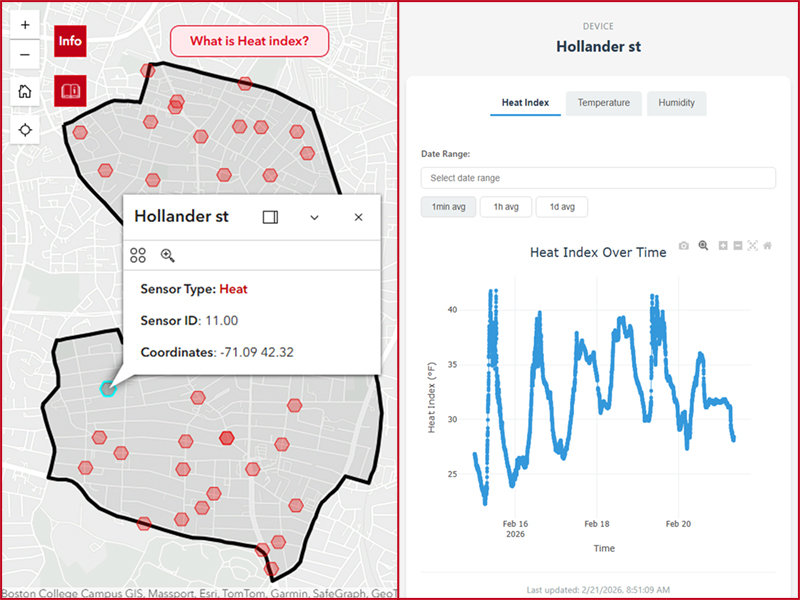
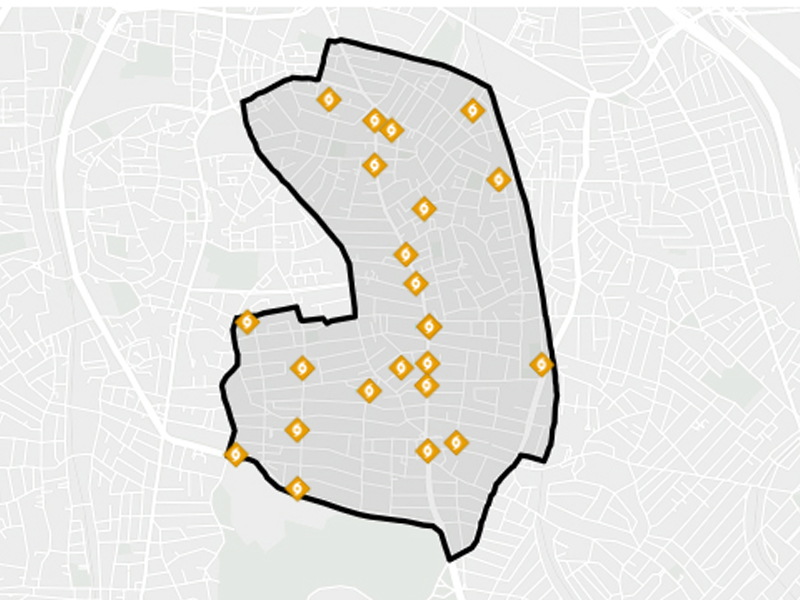
fix: adjust articles

diff --git a/index.html b/index.html
@@ -95,13 +95,9 @@
 							<img src="images/thumbs/project1-01.jpg" alt="" />
 						</a>
 						<a href="images/fulls/project1-02.jpg" class="image fit thumb" style="display:none"
-							data-caption="ETL pipeline architecture">
-							<img src="images/thumbs/project1-01.jpg" alt="" />
-						</a>
+							data-caption="ETL pipeline architecture"></a>
 						<a href="images/fulls/project1-03.jpg" class="image fit thumb" style="display:none"
-							data-caption="Geospatial data visualization">
-							<img src="images/thumbs/project1-01.jpg" alt="" />
-						</a>
+							data-caption="Geospatial data visualization"></a>
 					</div>
 					<div
 						style="display:flex; align-items:center; justify-content:space-between; margin:0.5em 0 0.3em 0;">
@@ -118,85 +114,14 @@
 					<p>Short description here. One or two sentences max.</p>
 					<p class="lx-long-desc" style="display:none">This is the longer description that appears in the
 						lightbox panel. You can write as much as you want here — methodology, context, findings,
-						whatever you want the viewer to read when they open the project.</p>
-					<span class="lx-tag" style="display:none">Python</span>
-					<span class="lx-tag" style="display:none">Azure</span>
-					<span class="lx-tag" style="display:none">SQL</span>
-					<span class="lx-tag" style="display:none">Streamlit</span>
-				</article>
-
-				<article class="col-6 col-12-xsmall work-item">
-					<div class="project-gallery">
-						<a href="images/fulls/project1-01.jpg" class="image fit thumb"
-							data-caption="Real-time sensor dashboard overview">
-							<img src="images/thumbs/project1-01.jpg" alt="" />
-						</a>
-						<a href="images/fulls/project1-02.jpg" class="image fit thumb" style="display:none"
-							data-caption="ETL pipeline architecture">
-							<img src="images/thumbs/project1-01.jpg" alt="" />
-						</a>
-						<a href="images/fulls/project1-03.jpg" class="image fit thumb" style="display:none"
-							data-caption="Geospatial data visualization">
-							<img src="images/thumbs/project1-01.jpg" alt="" />
-						</a>
-					</div>
-					<div
-						style="display:flex; align-items:center; justify-content:space-between; margin:0.5em 0 0.3em 0;">
-						<h3 style="margin:0;">Environmental Sensor Network Pipeline</h3>
-						<ul class="icons" style="margin:0; font-size:0.8em;">
-							<li><a href="https://github.com/jcruz-ferreyra?tab=repositories"
-									class="icon brands fa-github" title="GitHub"><span class="label">GitHub</span></a>
-							</li>
-							<li><a href="https://www.commonsensesproject.org/live-sensor-data"
-									class="icon solid fa-globe" title="Live Site"><span class="label">Live
-										Site</span></a></li>
-						</ul>
-					</div>
-					<p>Short description here. One or two sentences max.</p>
-					<p class="lx-long-desc" style="display:none">This is the longer description that appears in the
+						whatever you want the viewer to read when they open the project. This is the longer description
+						that appears in the
 						lightbox panel. You can write as much as you want here — methodology, context, findings,
-						whatever you want the viewer to read when they open the project.</p>
-					<span class="lx-tag" style="display:none">Python</span>
-					<span class="lx-tag" style="display:none">Azure</span>
-					<span class="lx-tag" style="display:none">SQL</span>
-					<span class="lx-tag" style="display:none">Streamlit</span>
-				</article>
-
-				<article class="col-6 col-12-xsmall work-item">
-					<div class="project-gallery">
-						<a href="images/fulls/project1-01.jpg" class="image fit thumb"
-							data-caption="Real-time sensor dashboard overview">
-							<img src="images/thumbs/project1-01.jpg" alt="" />
-						</a>
-						<a href="images/fulls/project1-02.jpg" class="image fit thumb" style="display:none"
-							data-caption="ETL pipeline architecture">
-							<img src="images/thumbs/project1-01.jpg" alt="" />
-						</a>
-						<a href="images/fulls/project1-03.jpg" class="image fit thumb" style="display:none"
-							data-caption="Geospatial data visualization">
-							<img src="images/thumbs/project1-01.jpg" alt="" />
-						</a>
-					</div>
-					<div
-						style="display:flex; align-items:center; justify-content:space-between; margin:0.5em 0 0.3em 0;">
-						<h3 style="margin:0;">Environmental Sensor Network Pipeline</h3>
-						<ul class="icons" style="margin:0; font-size:0.8em;">
-							<li><a href="https://github.com/jcruz-ferreyra?tab=repositories"
-									class="icon brands fa-github" title="GitHub"><span class="label">GitHub</span></a>
-							</li>
-							<li><a href="https://www.commonsensesproject.org/live-sensor-data"
-									class="icon solid fa-globe" title="Live Site"><span class="label">Live
-										Site</span></a></li>
-						</ul>
-					</div>
-					<p>Short description here. One or two sentences max.</p>
-					<p class="lx-long-desc" style="display:none">This is the longer description that appears in the
+						whatever you want the viewer to read when they open the project. This is the longer description
+						that appears in the
 						lightbox panel. You can write as much as you want here — methodology, context, findings,
-						whatever you want the viewer to read when they open the project. This is the longer description that appears in the
-						lightbox panel. You can write as much as you want here — methodology, context, findings,
-						whatever you want the viewer to read when they open the project. This is the longer description that appears in the
-						lightbox panel. You can write as much as you want here — methodology, context, findings,
-						whatever you want the viewer to read when they open the project. This is the longer description that appears in the
+						whatever you want the viewer to read when they open the project. This is the longer description
+						that appears in the
 						lightbox panel. You can write as much as you want here — methodology, context, findings,
 						whatever you want the viewer to read when they open the project.</p>
 					<span class="lx-tag" style="display:none">Python</span>
